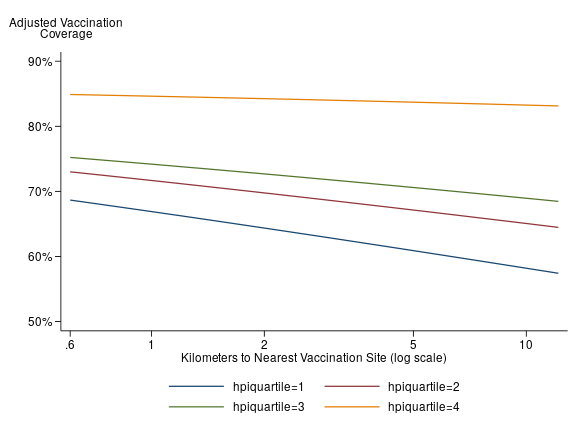
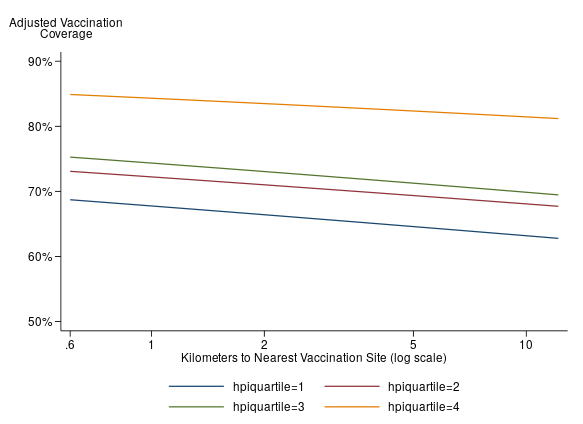
votes + minor changes

diff --git a/demest_tracts_rc.py b/demest_tracts_rc.py
@@ -18,16 +18,16 @@ for qq in range(1,5):
     agent_data[f"logdistXhpi{qq}"].describe()
 
 controls = ['race_black', 'race_asian', 'race_hispanic', 'race_other',
-            'health_employer', 'health_medicare', 'health_medicaid', 'health_other', 'collegegrad', 'unemployment', 'poverty', 'medianhhincome', 'medianhomevalue', 'popdensity', 'population']
+            'health_employer', 'health_medicare', 'health_medicaid', 'health_other', 'collegegrad', 'unemployment', 'poverty', 'medianhhincome', 'medianhomevalue', 'popdensity', 'population', 'dshare']
 
 # draw nI from standard normal
 nI = 50
 nu_dist_t = np.random.normal(size=(nI))
 nu_dist = np.tile(nu_dist_t, agent_data.shape[0])
 
-# draw RC for the constant
-nu_const_t = np.random.normal(size=(nI))
-nu_const = np.tile(nu_const_t, agent_data.shape[0])
+# # draw RC for the constant
+# nu_const_t = np.random.normal(size=(nI))
+# nu_const = np.tile(nu_const_t, agent_data.shape[0])
 
 
 # repeat the agent data nI times
@@ -36,7 +36,7 @@ agent_data['weights'] = agent_data['weights'] / nI
 agent_data['nu_dist'] = nu_dist
 # pre-multiply logdist by nu, so the estimated pi will be the variance
 agent_data['nuXlogdist'] = agent_data['nu_dist'] * agent_data['logdist']
-agent_data['nu_const'] = nu_const
+# agent_data['nu_const'] = nu_const
 
 df.to_csv(f"{datadir}/Analysis/product_data_tracts_rc.csv", index=False)
 agent_data.to_csv(f"{datadir}/Analysis/agent_data_tracts_rc.csv", index=False)
@@ -44,16 +44,21 @@ agent_data.to_csv(f"{datadir}/Analysis/agent_data_tracts_rc.csv", index=False)
 formula_str = "1 + prices +  " + " + ".join(controls)
 formulation1 = pyblp.Formulation(formula_str + '+ C(hpiquartile)')
 formulation2 = pyblp.Formulation('1')
-agent_formulation = pyblp.Formulation('0 + logdistXhpi1 + logdistXhpi2 + logdistXhpi3 + logdistXhpi4 + nuXlogdist + nu_const')
+agent_formulation = pyblp.Formulation('0 + logdistXhpi1 + logdistXhpi2 + logdistXhpi3 + logdistXhpi4 + nuXlogdist')
 
 # ADD INSTRUMENT
+# population weighted average log distance
+logdist_popw = agent_data.groupby('market_ids')['dist'].apply(lambda x: np.average(np.log(x), weights=agent_data.loc[x.index, 'weights']))
+
 # population-weighted quadratic distance
 dist_popw = agent_data.groupby('market_ids')['dist'].apply(lambda x: np.average(x, weights=agent_data.loc[x.index, 'weights']))
-dist2_popw = agent_data.groupby('market_ids')['dist'].apply(lambda x: np.average(x**2, weights=agent_data.loc[x.index, 'weights']))
+# dist2_popw = agent_data.groupby('market_ids')['dist'].apply(lambda x: np.average(x**2, weights=agent_data.loc[x.index, 'weights']))
 
 for qq in range(1,5):
     df[f'demand_instruments{qq-1}'] = dist_popw[df['market_ids']].values * (df['hpiquartile'] == qq)
-    df[f'demand_instruments{qq+3}'] = dist2_popw[df['market_ids']].values * (df['hpiquartile'] == qq)
+    df[f'demand_instruments{qq+3}'] = logdist_popw[df['market_ids']].values * (df['hpiquartile'] == qq)
+
+# TODO: add the interaction of distance and e.g. collegegrad
 
 ivcols = [cc for cc in df.columns if 'demand_instruments' in cc]
 df[ivcols].describe()
@@ -66,11 +71,11 @@ problem = pyblp.Problem(product_formulations=(formulation1, formulation2),
 print(problem)
 
 iteration_config = pyblp.Iteration(method='squarem', method_options={'atol':1e-12, 'max_evaluations':10000})
-optimization_config = pyblp.Optimization('trust-constr', {'gtol':1e-9, 'verbose':1, 'maxiter':600})
+optimization_config = pyblp.Optimization('trust-constr', {'gtol':1e-8, 'verbose':1, 'maxiter':600})
 
 
 with pyblp.parallel(32):
-    results = problem.solve(pi=-0.1*np.ones((1,6)),
+    results = problem.solve(pi=-0.1*np.ones((1,5)),
                             iteration = iteration_config,
                             optimization = optimization_config,
                             sigma = 0

diff --git a/pyblp_demest.py b/pyblp_demest.py
@@ -10,18 +10,21 @@ pyblp.options.digits = 4
 datadir = "/export/storage_adgandhi/MiscLi/VaccineDemandLiGandhi/Data"
 
 # Load data
-df = pd.read_csv(f"{datadir}/Analysis/demest_data.csv")
-df['prices'] = 0
+df = pd.read_csv(f"{datadir}/Analysis/product_data_tracts.csv")
 df.hpiquartile.unique()
 # cat_dtype = pd.CategoricalDtype(categories=[4,3,2,1], ordered=True) #TODO: figure out how to make 4 the reference category
 # df.hpiquartile = df.hpiquartile.astype(cat_dtype)
-print(df['hpiquartile'])
+
+# make log(dist) by hpiquartile
+for qq in range(1,5):
+    df[f"logdistXhpi{qq}"] = np.log(df['dist']) * (df['hpiquartile'] == qq)
+    df[f"logdistXhpi{qq}"].describe()
 
 controls = ['race_black', 'race_asian', 'race_hispanic', 'race_other',
             'health_employer', 'health_medicare', 'health_medicaid', 'health_other',
             'collegegrad', 'unemployment', 'poverty', 'medianhhincome', 
-            'medianhomevalue', 'popdensity', 'population']
-formula_str = "1 + prices + log(dist)/C(hpiquartile) + " + " + ".join(controls)
+            'medianhomevalue', 'popdensity', 'population', 'dshare']
+formula_str = "1 + prices + logdistXhpi1 + logdistXhpi2 + logdistXhpi3 + logdistXhpi4 + " + " + ".join(controls)
 formulation1 = pyblp.Formulation(formula_str, absorb='C(hpiquartile)')
 
 include_hpi = False #Switch to True to include HPI quartile * distance interaction in the RC
@@ -40,7 +43,7 @@ product_formulation = (formulation1, formulation2)
 
 
 integ_config = pyblp.Integration('monte_carlo', size=100, specification_options={'seed': 0})
-opt_config = pyblp.Optimization('trust-constr', {'gtol': 1e-10})
+opt_config = pyblp.Optimization('trust-constr', {'gtol': 1e-9})
 
 problem = pyblp.Problem(product_formulations=product_formulation, product_data=df, integration=integ_config)
 
@@ -152,33 +155,3 @@ print(df.groupby('hpiquartile')['dist_elast'].describe())
 # save results
 df.to_csv(dfpath)
 print("saved results at: ", dfpath)
-
-
-####################
-####################
-####################
-# plot objective function for different distance coefficients
-plot_obj = False
-if plot_obj:
-    import matplotlib.pyplot as plt
-    pyblp.options.verbose = False
-
-    objective_log = []
-    dist_coefs = np.linspace(-4,2,25)
-    for bb in dist_coefs:
-        beta_init = res.beta
-        beta_init[res.beta_labels.index('log(dist)')] = bb
-        with pyblp.parallel(poolnum):
-            res = problem.solve(beta = beta_init, sigma = res.sigma, optimization=pyblp.Optimization('return'))
-        objective_log.append(res.objective[0][0])
-        print(bb, res.objective[0][0])
-
-    # Plot
-    fig, ax = plt.subplots()
-    ax.set_xlabel('distance coefficient')
-    ax.set_ylabel('objective')
-    ax.set_title('Objective function')
-    ax.plot(dist_coefs, objective_log)
-    figpath = f"/mnt/staff/zhli/objplot_pyblp_{str(int(dist_coefs[0]))}_{str(int(dist_coefs[-1]))}.png"
-    print("saving figure at: ", figpath)
-    plt.savefig(figpath)

diff --git a/demest_tracts.py b/demest_tracts.py
@@ -23,7 +23,7 @@ for qq in range(1,5):
 controls = ['race_black', 'race_asian', 'race_hispanic', 'race_other',
             'health_employer', 'health_medicare', 'health_medicaid', 'health_other',
             'collegegrad', 'unemployment', 'poverty', 'medianhhincome', 
-            'medianhomevalue', 'popdensity', 'population']
+            'medianhomevalue', 'popdensity', 'population', 'dshare']
 formula_str = "1 + prices +  " + " + ".join(controls)
 formulation1 = pyblp.Formulation(formula_str + '+ C(hpiquartile)')
 formulation2 = pyblp.Formulation('1')
@@ -38,6 +38,9 @@ for qq in range(1,5):
 ivcols = [cc for cc in df.columns if 'demand_instruments' in cc]
 df[ivcols].describe()
 
+df['demand_instruments4'] = df.collegegrad * df.health_medicare
+df['demand_instruments5'] = df.dshare * df.unemployment
+
 # TODO: could also try the log of the average distance, just add
 
 problem = pyblp.Problem(product_formulations=(formulation1, formulation2), 
@@ -47,7 +50,7 @@ problem = pyblp.Problem(product_formulations=(formulation1, formulation2),
 print(problem)
 
 iteration_config = pyblp.Iteration(method='squarem', method_options={'atol':1e-12, 'max_evaluations':10000})
-optimization_config = pyblp.Optimization('trust-constr', {'gtol':1e-9, 'verbose':1, 'maxiter':600})
+optimization_config = pyblp.Optimization('trust-constr', {'gtol':1e-8, 'verbose':1, 'maxiter':600})
 
 with pyblp.parallel(32):
     results = problem.solve(pi=-0.1*np.ones((1,4)),

diff --git a/prep_tracts.py b/prep_tracts.py
@@ -16,6 +16,14 @@ datadir = "/export/storage_adgandhi/MiscLi/VaccineDemandLiGandhi/Data"
 # Original ZIP-level data with vaccination rates (product_data)
 df = pd.read_csv(f"{datadir}/Analysis/demest_data.csv", dtype={'zip': str})
 df = df.assign(market_ids = df['zip'], prices = 0)
+zip_votes = pd.read_csv(f"{datadir}/tracts/zip_votes.csv", dtype={'zip': str})
+list(zip_votes.columns)
+zip_votes['dshare'] = zip_votes['dvotes'] / (zip_votes['dvotes'] + zip_votes['rvotes']) #make 2-party vote share
+zip_votes = zip_votes[['zip', 'dshare']]
+df = df.merge(zip_votes, on='zip', how='outer', indicator=True)
+df._merge.value_counts() 
+df = df.loc[df._merge == 'both', :]
+df.drop(columns=['_merge'], inplace=True)
 
 # Tract (geoid) level data with HPI and HPIQuartile
 tract_hpi_df = pd.read_csv(f"{datadir}/tracts/HPItract.csv", dtype={'geoid': str})
